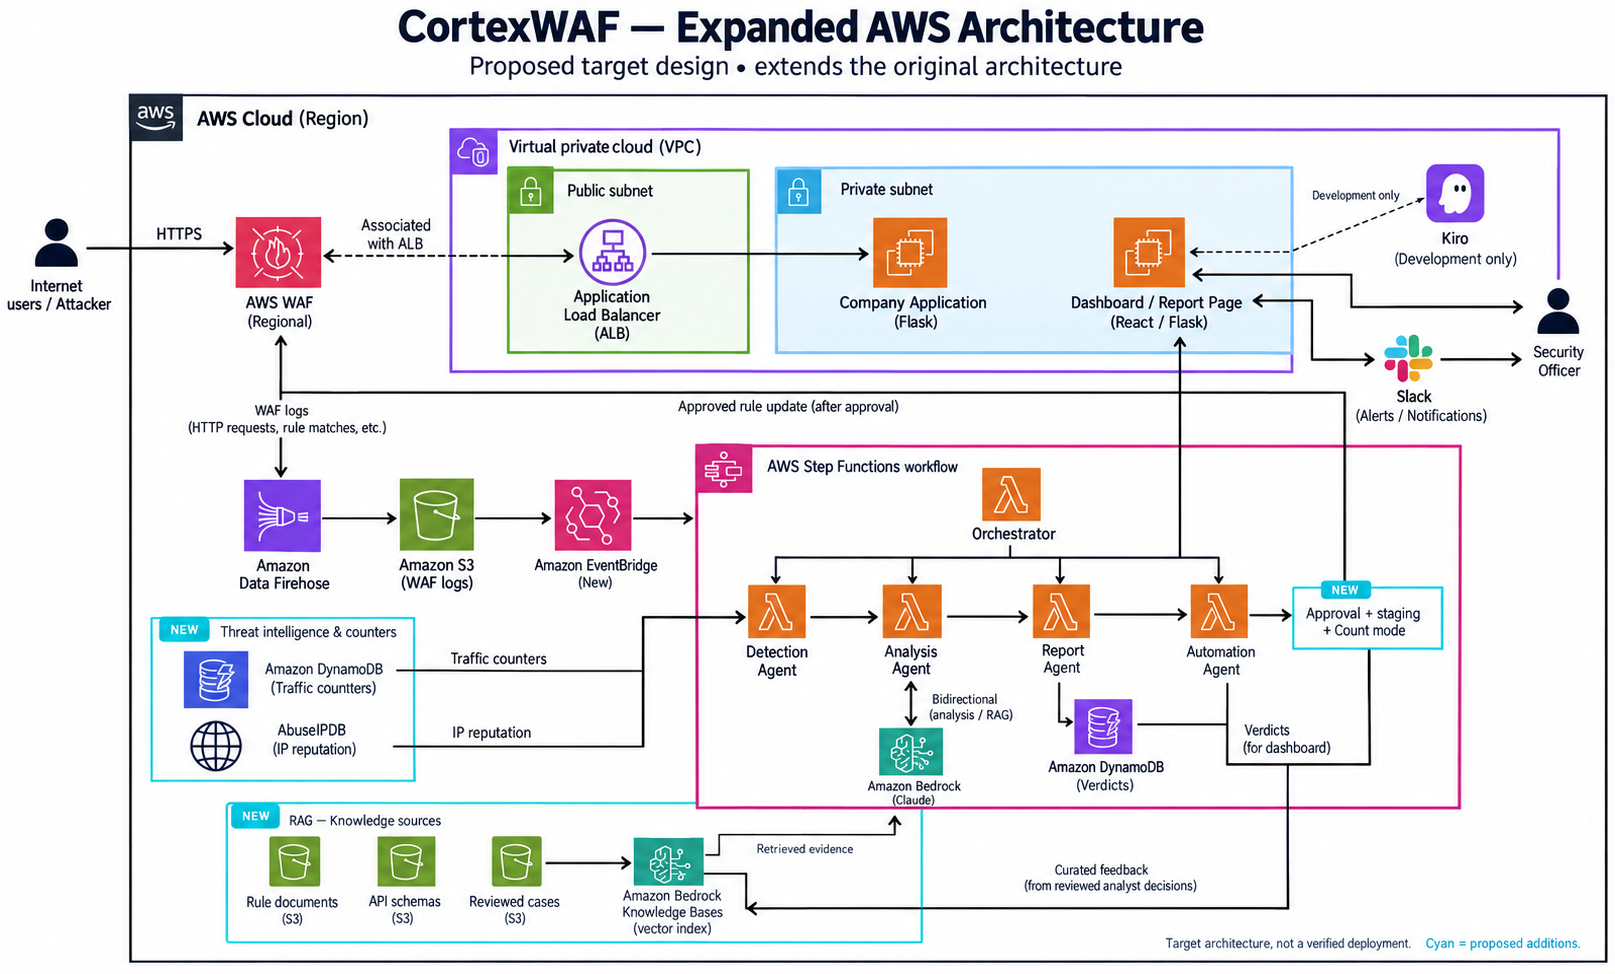
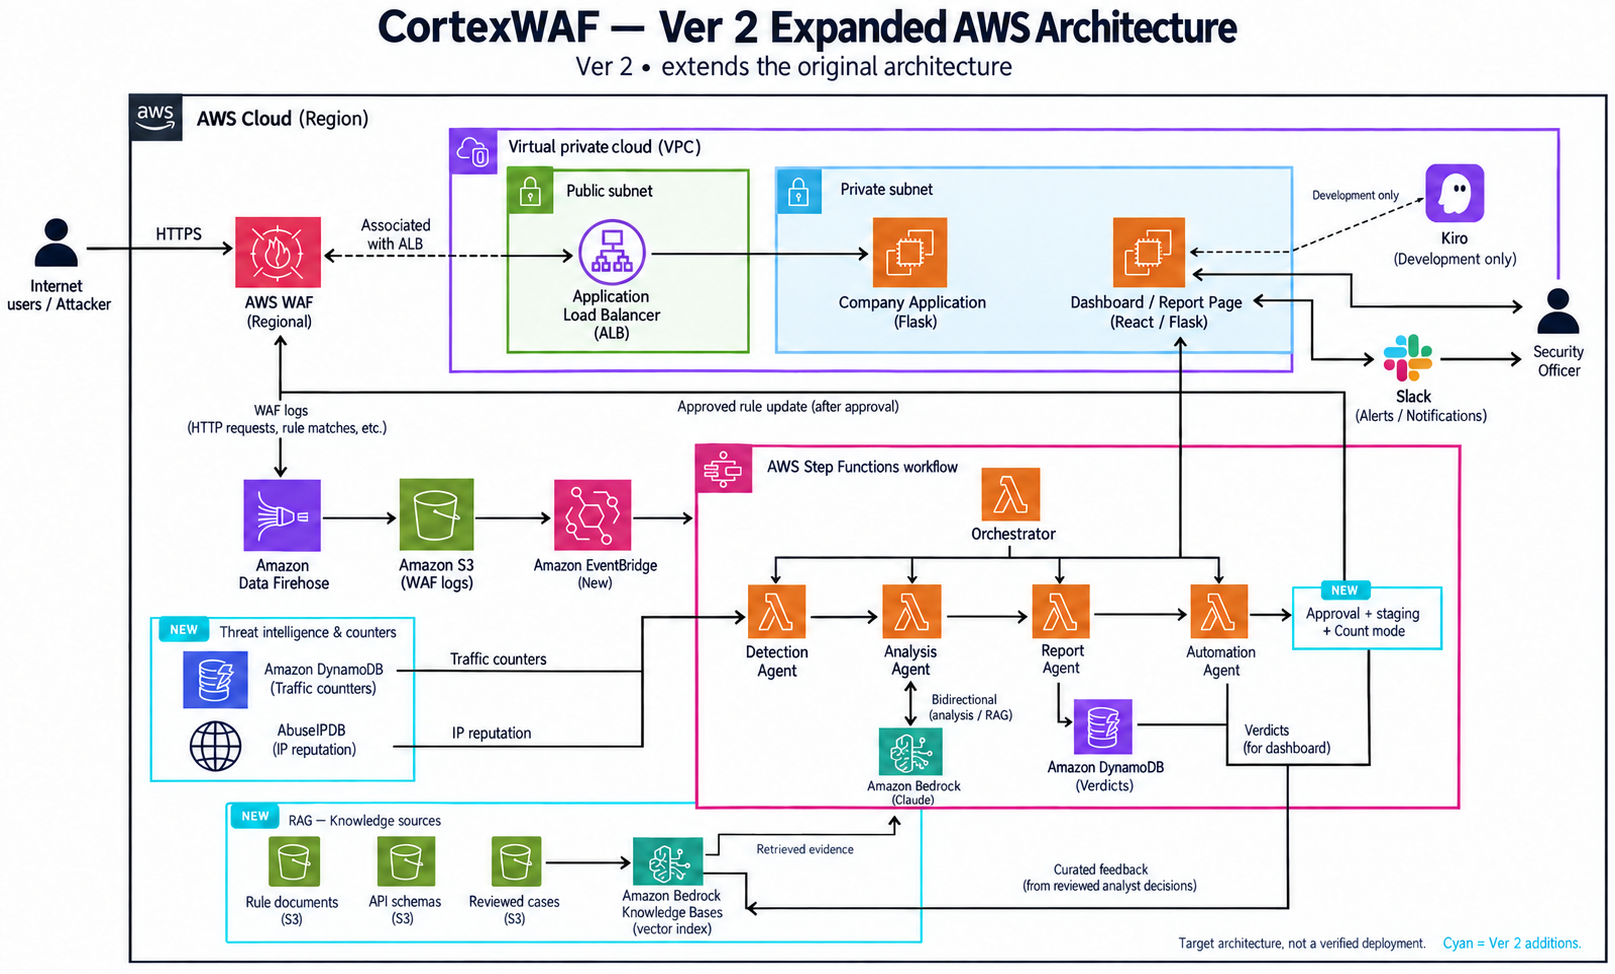
Label README architectures Ver 1 and Ver 2

diff --git a/README.md b/README.md
@@ -3,7 +3,9 @@
 **AI-driven AWS WAF log analysis and automated rule management.**
 CortexWAF loads AWS WAF logs, displays attack statistics, and supports rule management through a React dashboard. A separate Amazon Bedrock / Claude pipeline classifies events and routes them to blocking or review. An optional LangChain RAG pipeline now provides vector retrieval, cited rule-family recommendations, a dashboard review panel, and persisted analyst feedback. See [RAG setup and evaluation](docs/RAG.md). Live quality metrics have not yet been measured.
 
-![CortexWAF project overview](image.png)
+### Ver 1 — Original Architecture
+
+![CortexWAF Ver 1 architecture](image.png)
 
 <!-- TODO: replace with your own hosted badges or remove -->
 ![Python](https://img.shields.io/badge/Python-3.10+-3776AB?logo=python&logoColor=white)
@@ -38,7 +40,7 @@ AWS WAF produces high-volume logs, but deciding *which* managed rules to enable 
 
 ## Architecture
 
-### Current code paths
+### Ver 1 — Code Paths
 
 The repository contains two separate paths:
 
@@ -63,15 +65,15 @@ flowchart LR
 
 The analysis modules expose Lambda handlers, and `test_local.py` chains the stages locally. The repository does not include a Step Functions state-machine definition. The dashboard retains its template-based rule cards and additionally displays persisted recommendations from the optional RAG service. The original overview above illustrates infrastructure intent, not a verified deployment.
 
-### Proposed expanded AWS architecture
+### Ver 2 — Expanded AWS Architecture
 
-![CortexWAF proposed AWS architecture with RAG, traffic counters, persisted verdicts, and reviewed rule updates](docs/images/aws-architecture.png)
+![CortexWAF Ver 2 AWS architecture with RAG, traffic counters, persisted verdicts, and reviewed rule updates](docs/images/aws-architecture.png)
 
 This target design extends the original architecture with knowledge retrieval, traffic counters, persisted analysis results, and an approval and testing path for WAF updates. Managed AWS services are shown separately from VPC application compute. Cyan highlights proposed capabilities; the diagram is conceptual rather than deployable infrastructure configuration.
 
-### Proposed LLM + RAG workflow
+### Ver 2 — LLM + RAG Workflow
 
-![CortexWAF proposed LLM and RAG workflow with knowledge ingestion, evidence retrieval, analyst feedback, and evaluation](docs/images/llm-rag-workflow.png)
+![CortexWAF Ver 2 LLM and RAG workflow with knowledge ingestion, evidence retrieval, analyst feedback, and evaluation](docs/images/llm-rag-workflow.png)
 
 1. **Prepare evidence:** normalize events, redact secrets, and calculate actual traffic statistics. IP reputation and counters enrich the Detection stage.
 2. **Retrieve context:** ingest rule documentation, application/API schemas, and analyst-reviewed incidents; filter retrieval by application, endpoint, rule, and version.
